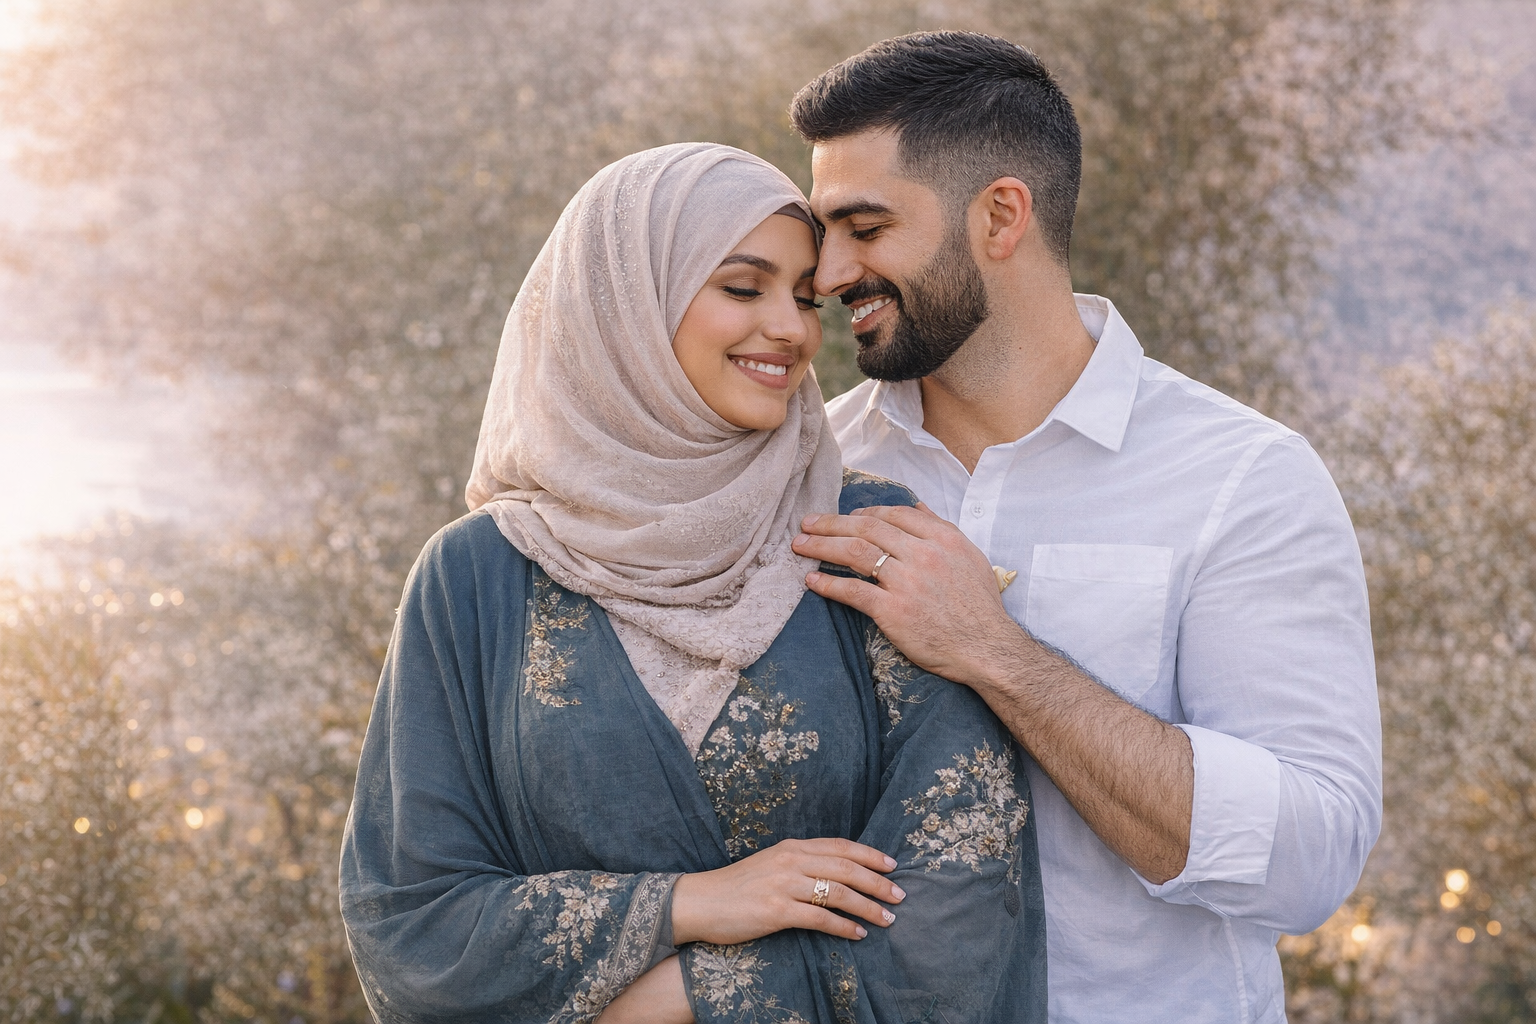
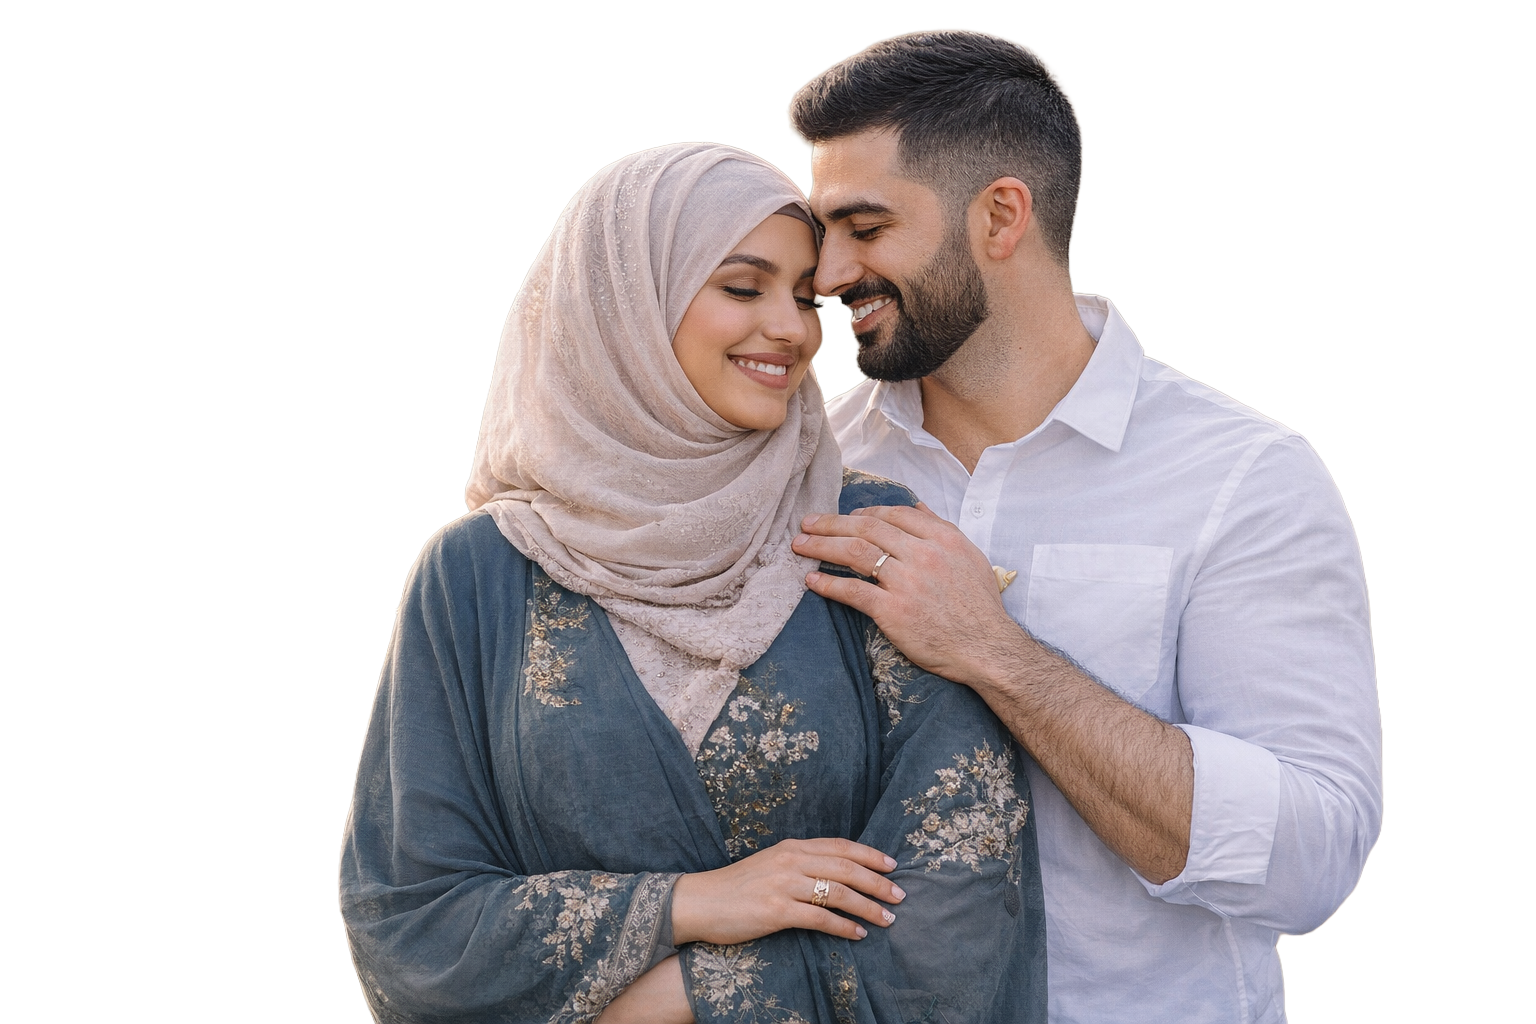
Hero section image change

diff --git a/src/Components/Banner.jsx b/src/Components/Banner.jsx
@@ -2,33 +2,8 @@ import bannerImg from '../assets/Banner/BG-matrimony-image.png'
 
 const Banner = () => {
     return (
-        <div className="w-full overflow-hidden">
-            {/* Flex container */}
-            <div className="flex flex-col lg:flex-row items-center">
-
-                {/* Left: Text */}
-                <div className="lg:w-1/2 px-6 py-16 lg:py-32">
-                    <h1 className="text-3xl md:text-5xl lg:text-6xl font-bold text-gray-800 leading-snug">
-                        Find Your Perfect Match for a Halal & Happy Marriage
-                    </h1>
-                    <p className="mt-4 text-gray-600 text-lg md:text-xl max-w-lg">
-                        Join thousands of happy couples and start your journey today!
-                    </p>
-                    <button className="mt-6 px-6 py-3 bg-orange-500 text-white font-semibold rounded-lg hover:bg-orange-600 transition">
-                        Get Started
-                    </button>
-                </div>
-
-                {/* Right: Image */}
-                <div className="lg:w-1/2 w-full">
-                    <img
-                        className="w-full h-[400px] md:h-[500px] lg:h-full object-cover"
-                        src={bannerImg}
-                        alt="Banner"
-                    />
-                </div>
-
-            </div>
+        <div className="">
+            <img src={bannerImg} alt="" />
         </div>
     )
 }
